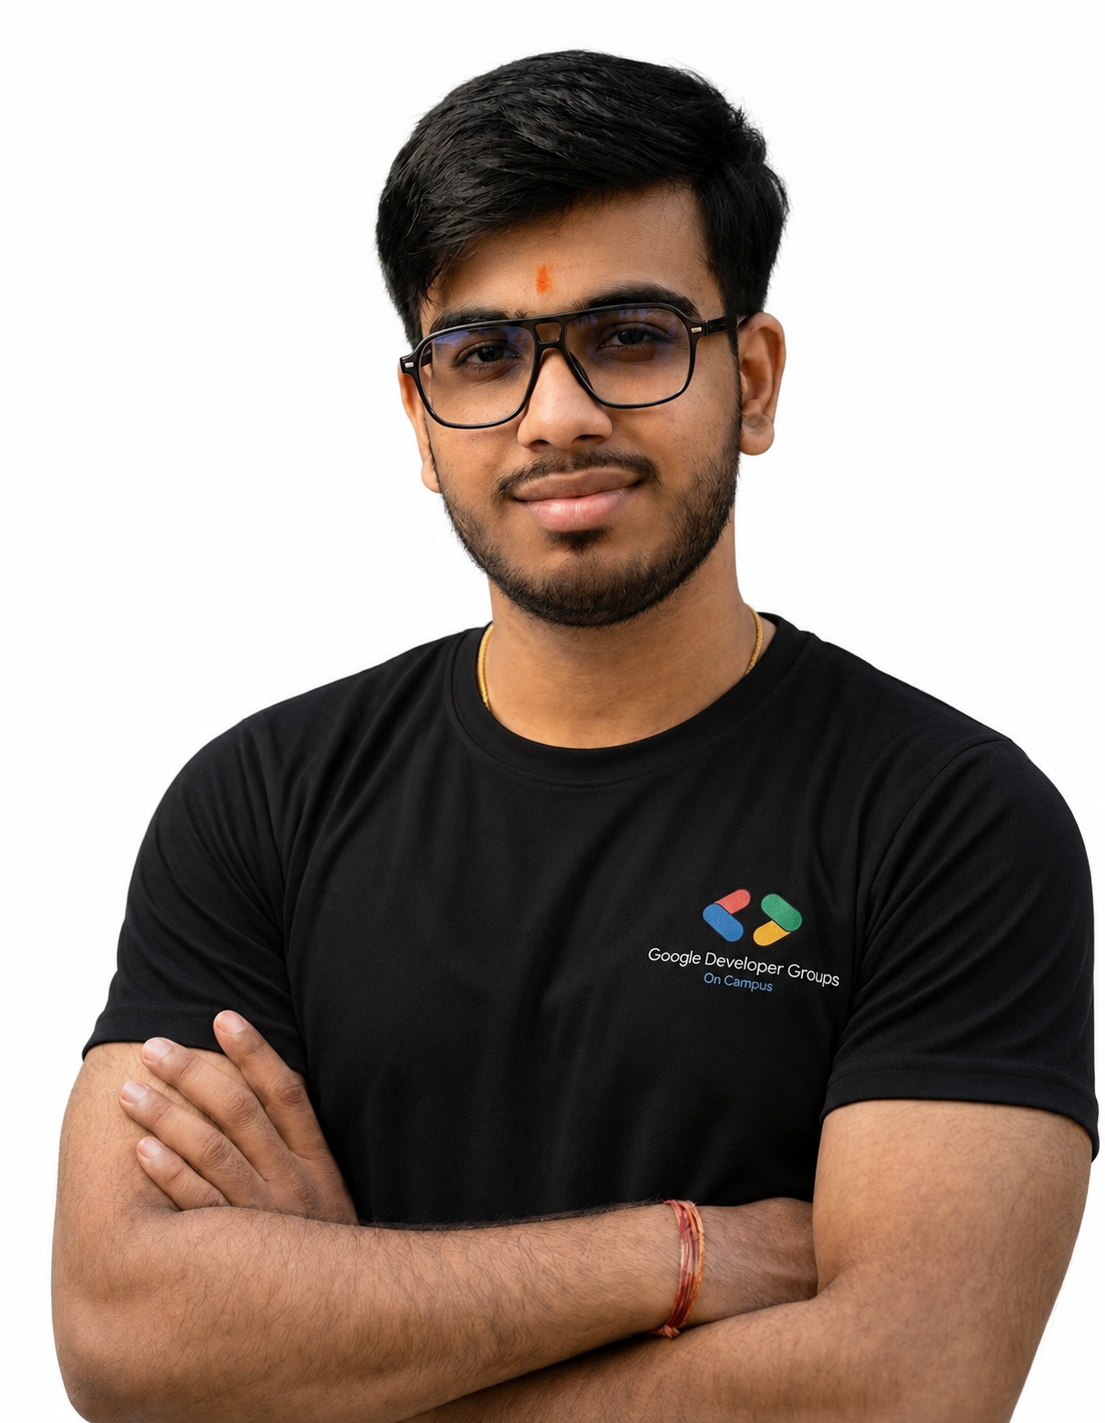
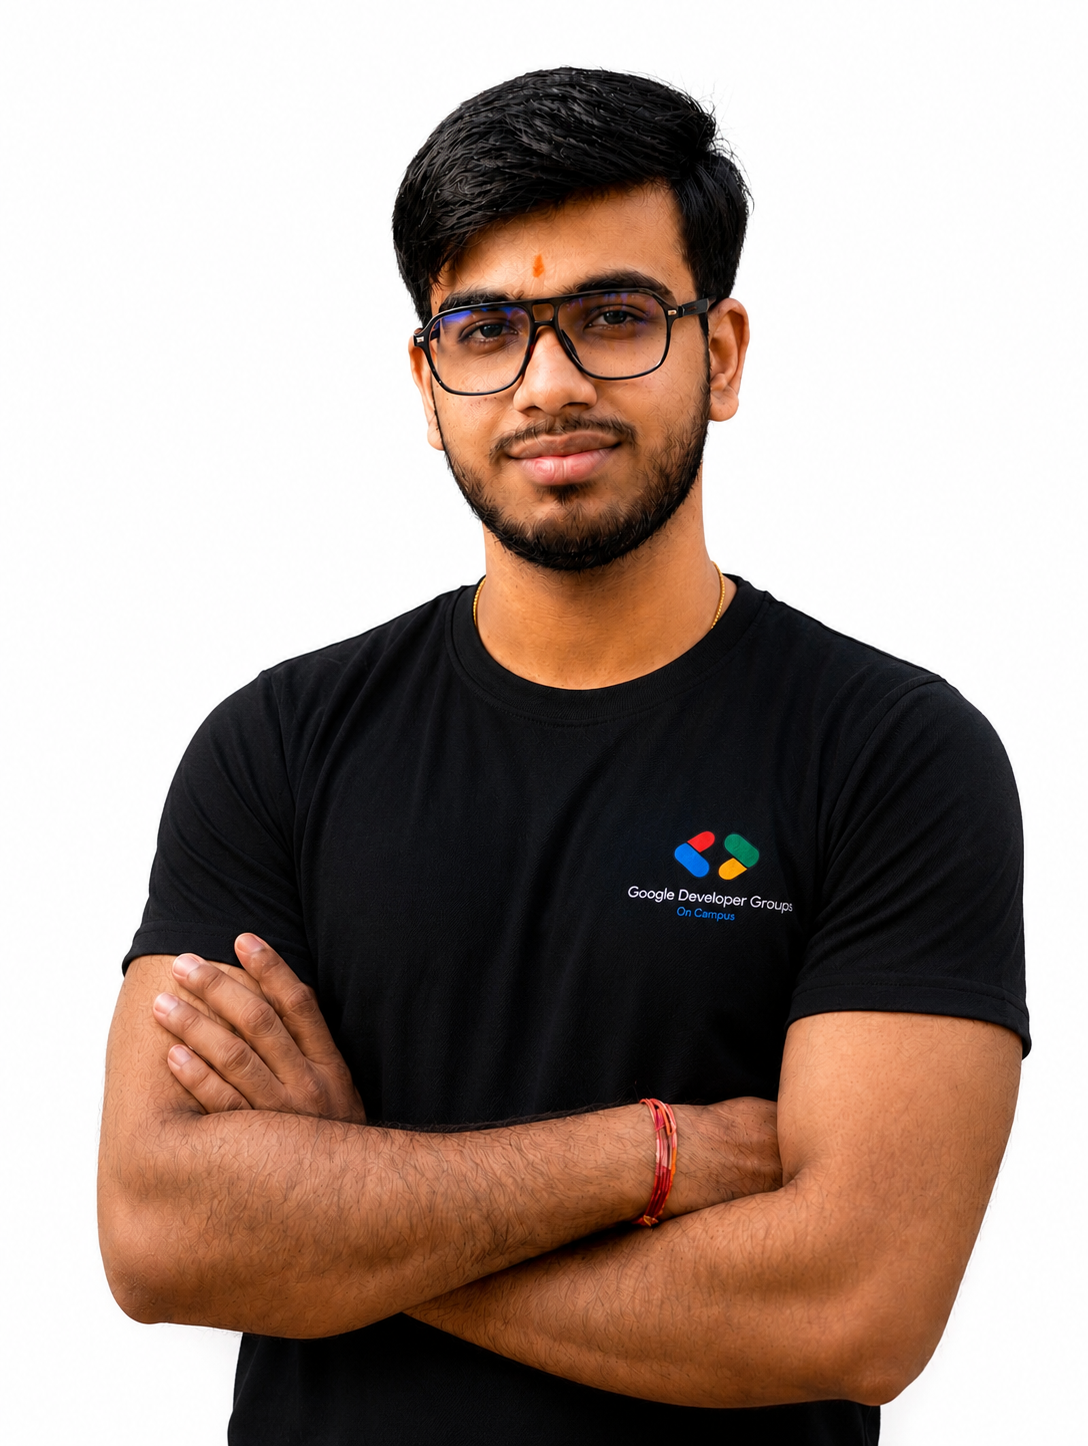
img

diff --git a/src/components/HeroSection.tsx b/src/components/HeroSection.tsx
@@ -230,7 +230,7 @@ function HotbarSlot({
 
 // ─── Main Component ───────────────────────────────────────────────────────────
 export default function HeroSection() {
-  const [typedText] = useState("Web Developer | Open Source Contributor");
+  // const [typedText] = useState("Web Developer | Open Source Contributor");
 
   const staticBlocks: FloatingBlock[] = [
     { id: 1, x: 12, y: 8, size: 28, type: BLOCK_TYPES[0], rotation: -8, opacity: 0.16 },
@@ -699,25 +699,10 @@ export default function HeroSection() {
                     quality={85}
                     sizes="(max-width: 768px) 100vw, 260px"
                   />
-                  {/* Pixelate overlay on image */}
-                  <div style={{
-                    position: "absolute",
-                    inset: 0,
-                    backgroundImage: "repeating-linear-gradient(0deg, transparent, transparent 3px, rgba(0,0,0,0.04) 3px, rgba(0,0,0,0.04) 4px), repeating-linear-gradient(90deg, transparent, transparent 3px, rgba(0,0,0,0.04) 3px, rgba(0,0,0,0.04) 4px)",
-                    pointerEvents: "none",
-                  }} />
-                  {/* Enchant shimmer on hover */}
-                  <div style={{
-                    position: "absolute",
-                    inset: 0,
-                    background: "linear-gradient(135deg, transparent 40%, rgba(79,195,247,0.12) 50%, transparent 60%)",
-                    backgroundSize: "200% 200%",
-                    pointerEvents: "none",
-                  }} />
                 </div>
 
                 {/* Player name tag at bottom of image */}
-                <div
+                {/* <div
                   style={{
                     position: "absolute",
                     bottom: 0,
@@ -749,16 +734,7 @@ export default function HeroSection() {
                   }}>
                     namannn04
                   </span>
-                  <span style={{
-                    marginLeft: "auto",
-                    fontFamily: "'Press Start 2P', monospace",
-                    fontSize: 6,
-                    color: "var(--mc-xp)",
-                    textShadow: "0 0 4px var(--mc-xp)",
-                  }}>
-                    ● ONLINE
-                  </span>
-                </div>
+                </div> */}
               </div>
             </div>
 
@@ -780,6 +756,10 @@ export default function HeroSection() {
             }}>
               {/* Panel title */}
               <div style={{
+                display: "flex",
+                alignItems: "center",
+                justifyContent: "space-between",
+                gap: 12,
                 fontFamily: "'Press Start 2P', monospace",
                 fontSize: "clamp(8px, 1.8vw, 11px)",
                 color: "var(--mc-gold)",
@@ -788,7 +768,16 @@ export default function HeroSection() {
                 paddingBottom: 12,
                 letterSpacing: "0.08em",
               }}>
-                ▶ PLAYER STATS
+                <span>▶ PLAYER STATS</span>
+                <span style={{
+                  fontFamily: "'Press Start 2P', monospace",
+                  fontSize: "clamp(6px, 1.2vw, 9px)",
+                  color: "var(--mc-xp)",
+                  textShadow: "0 0 4px var(--mc-xp)",
+                  whiteSpace: "nowrap",
+                }}>
+                  ● ONLINE
+                </span>
               </div>
 
               <div style={{
@@ -799,9 +788,9 @@ export default function HeroSection() {
                 lineHeight: 1.5,
               }}>
                 <div style={{ color: "var(--mc-xp)" }}>USER: namannn04</div>
-                <div>SDE</div>
-                <div>OPEN SOURCE CONTRIBUTOR</div>
-                <div>FREELANCER</div>
+                <div>&gt; SDE</div>
+                <div>&gt; OPEN SOURCE CONTRIBUTOR</div>
+                <div>&gt; FREELANCER</div>
               </div>
 
               {/* Stats */}
@@ -853,7 +842,7 @@ export default function HeroSection() {
           </div>
 
           {/* ── TYPEWRITER ROLE ────────────────────────────── */}
-          <div style={{
+          {/* <div style={{
             marginTop: 28,
             fontFamily: "'Press Start 2P', monospace",
             fontSize: "clamp(8px, 2vw, 13px)",
@@ -865,7 +854,7 @@ export default function HeroSection() {
             opacity: 1,
           }}>
             &gt; {typedText}
-          </div>
+          </div> */}
 
           {/* ── HOTBAR SOCIAL LINKS ──────────────────────── */}
           <div style={{
